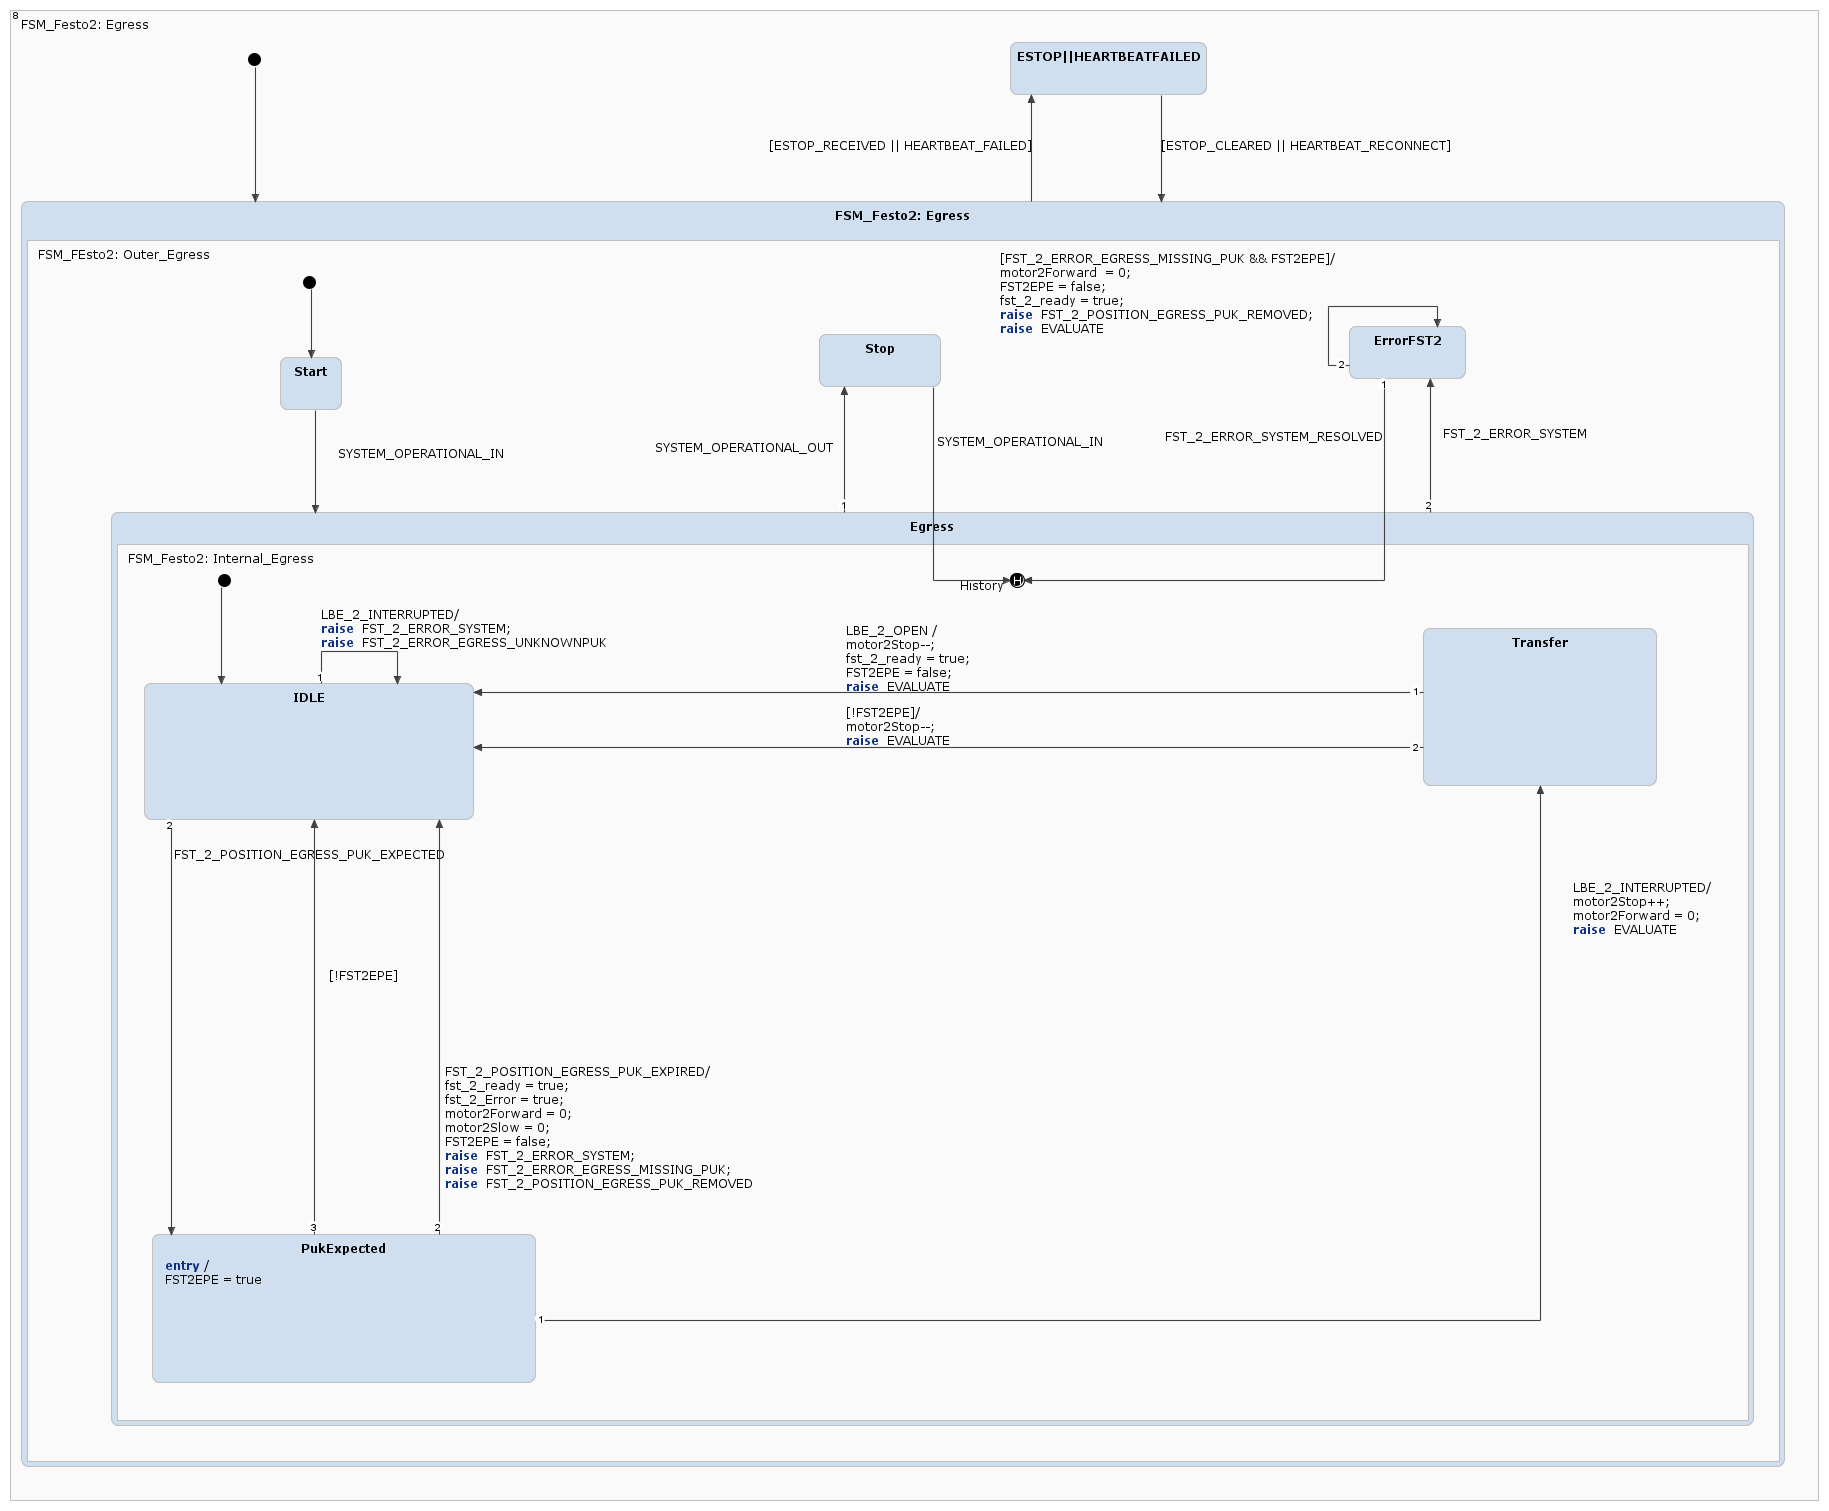
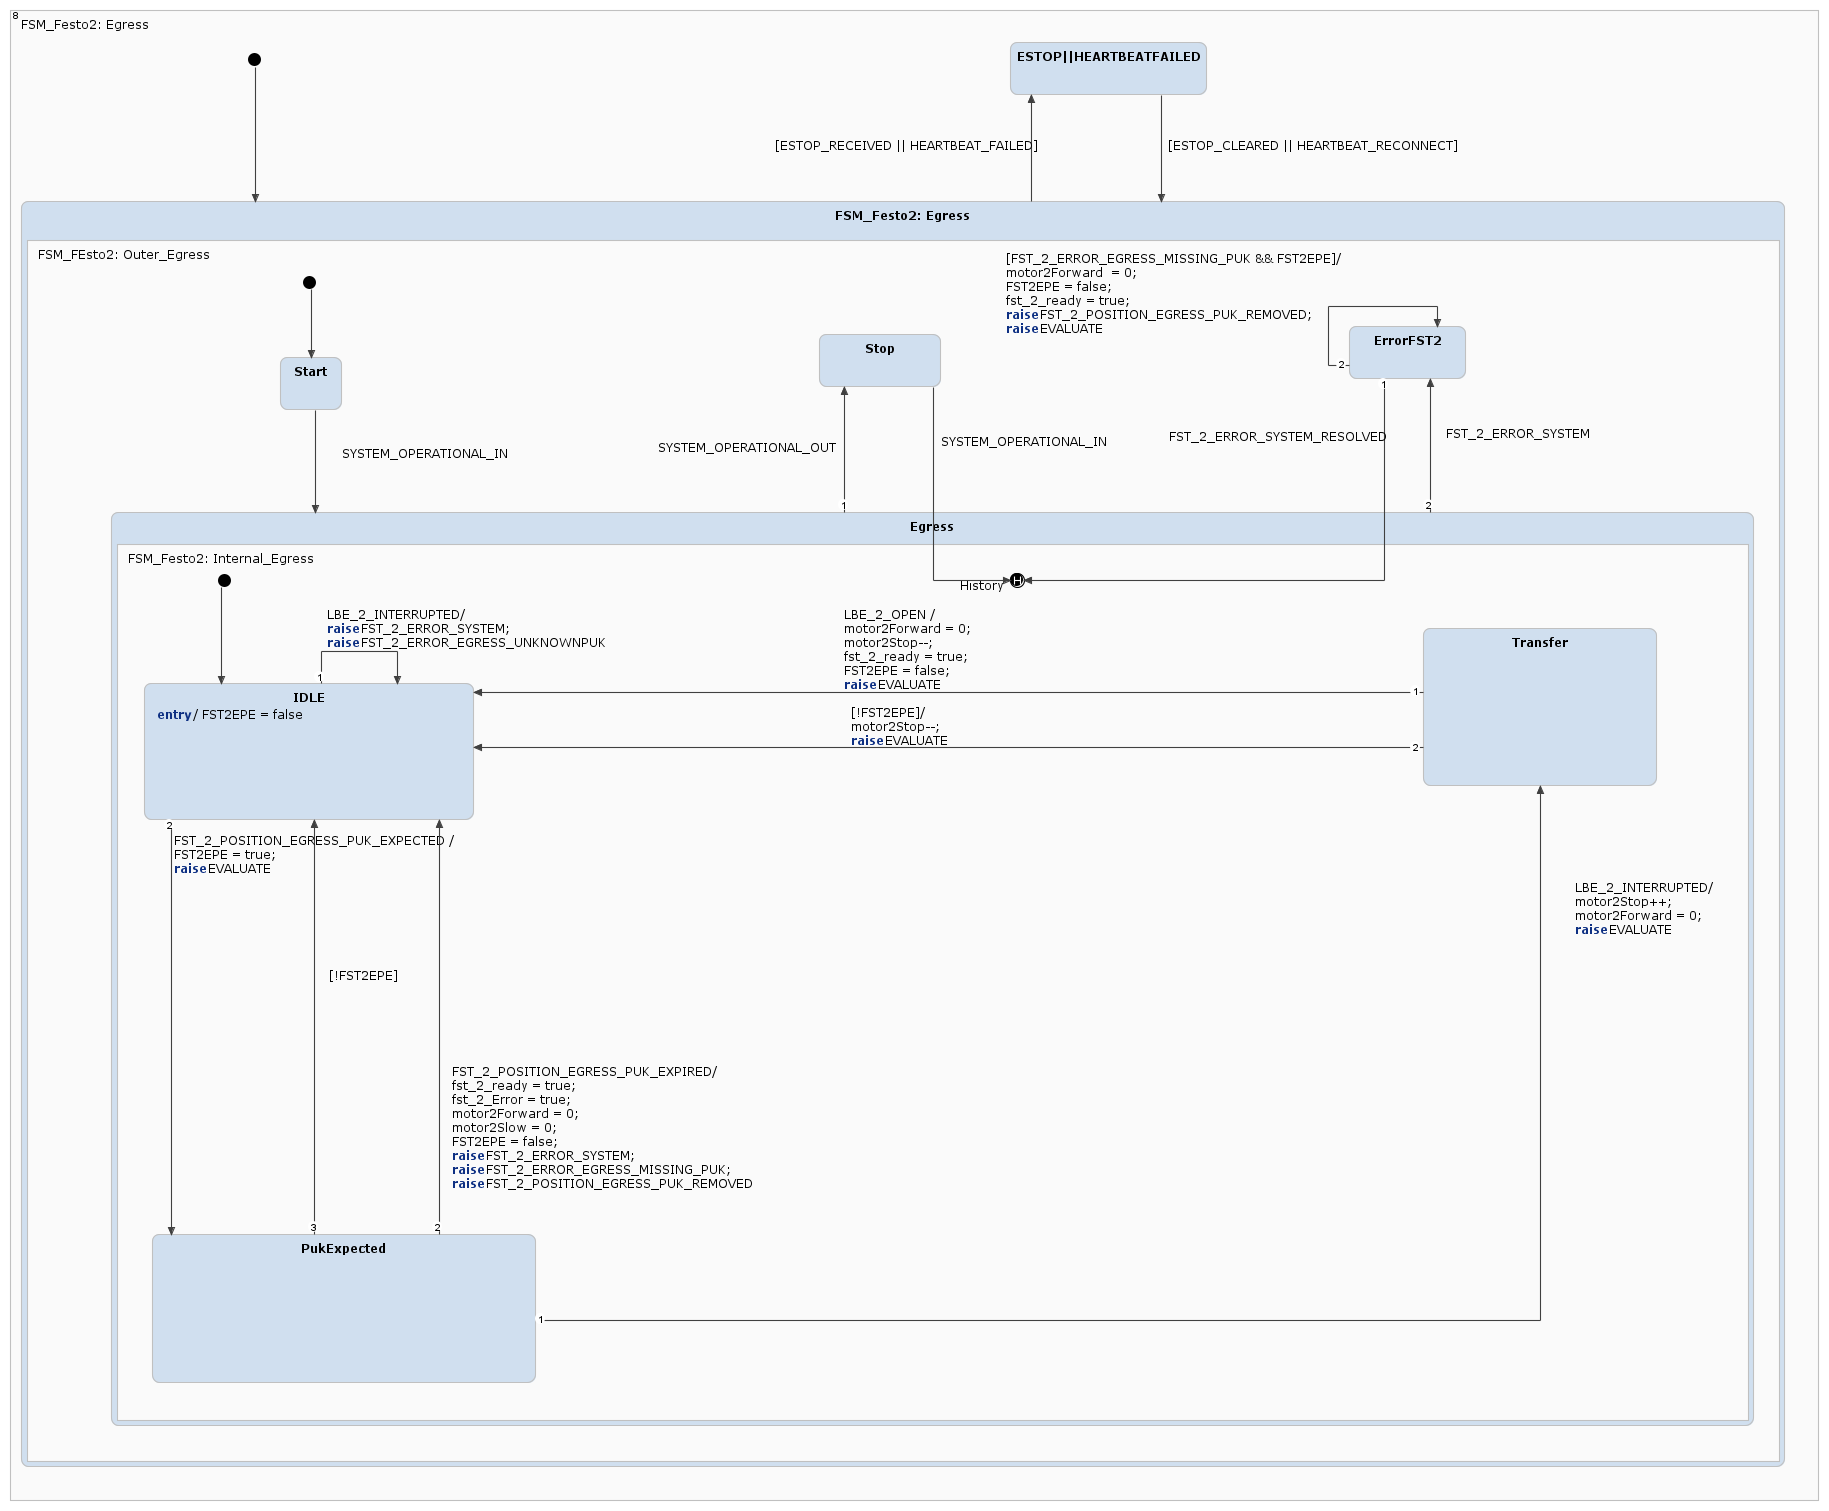
Reviewed fst2 egress

diff --git a/src/FSM/gen/src-gen/FSM.cpp b/src/FSM/gen/src-gen/FSM.cpp
@@ -4626,11 +4626,11 @@ void FSM::enact_FSM_Festo2__HeightMeasurement_FSM_Festo2__HeightMeasurement_FSM_
 	completed = true;
 }
 
-/* Entry action for state 'PukExpected'. */
-void FSM::enact_FSM_Festo2__Egress_FSM_Festo2__Egress_FSM_FEsto2__Outer_Egress_Egress_FSM_Festo2__Internal_Egress_PukExpected()
+/* Entry action for state 'IDLE'. */
+void FSM::enact_FSM_Festo2__Egress_FSM_Festo2__Egress_FSM_FEsto2__Outer_Egress_Egress_FSM_Festo2__Internal_Egress_IDLE()
 {
-	/* Entry action for state 'PukExpected'. */
-	setFST2EPE(true);
+	/* Entry action for state 'IDLE'. */
+	setFST2EPE(false);
 }
 
 /* Entry action for state 'Forward'. */
@@ -6107,6 +6107,7 @@ void FSM::enseq_FSM_Festo2__Egress_FSM_Festo2__Egress_FSM_FEsto2__Outer_Egress_E
 void FSM::enseq_FSM_Festo2__Egress_FSM_Festo2__Egress_FSM_FEsto2__Outer_Egress_Egress_FSM_Festo2__Internal_Egress_IDLE_default()
 {
 	/* 'default' enter sequence for state IDLE */
+	enact_FSM_Festo2__Egress_FSM_Festo2__Egress_FSM_FEsto2__Outer_Egress_Egress_FSM_Festo2__Internal_Egress_IDLE();
 	stateConfVector[7] = FSM::State::FSM_Festo2__Egress_FSM_Festo2__Egress_FSM_FEsto2__Outer_Egress_Egress_FSM_Festo2__Internal_Egress_IDLE;
 	stateConfVectorPosition = 7;
 	historyVector[8] = stateConfVector[7];
@@ -6125,7 +6126,6 @@ void FSM::enseq_FSM_Festo2__Egress_FSM_Festo2__Egress_FSM_FEsto2__Outer_Egress_E
 void FSM::enseq_FSM_Festo2__Egress_FSM_Festo2__Egress_FSM_FEsto2__Outer_Egress_Egress_FSM_Festo2__Internal_Egress_PukExpected_default()
 {
 	/* 'default' enter sequence for state PukExpected */
-	enact_FSM_Festo2__Egress_FSM_Festo2__Egress_FSM_FEsto2__Outer_Egress_Egress_FSM_Festo2__Internal_Egress_PukExpected();
 	stateConfVector[7] = FSM::State::FSM_Festo2__Egress_FSM_Festo2__Egress_FSM_FEsto2__Outer_Egress_Egress_FSM_Festo2__Internal_Egress_PukExpected;
 	stateConfVectorPosition = 7;
 	historyVector[8] = stateConfVector[7];
@@ -16938,6 +16938,9 @@ sc::integer FSM::FSM_Festo2__Egress_FSM_Festo2__Egress_FSM_FEsto2__Outer_Egress_
 				if (FST_2_POSITION_EGRESS_PUK_EXPECTED_raised)
 				{ 
 					exseq_FSM_Festo2__Egress_FSM_Festo2__Egress_FSM_FEsto2__Outer_Egress_Egress_FSM_Festo2__Internal_Egress_IDLE();
+					setFST2EPE(true);
+					EVALUATE_observable.next();
+					raiseLocal_EVALUATE();
 					enseq_FSM_Festo2__Egress_FSM_Festo2__Egress_FSM_FEsto2__Outer_Egress_Egress_FSM_Festo2__Internal_Egress_PukExpected_default();
 					FSM_Festo2__Egress_FSM_Festo2__Egress_FSM_FEsto2__Outer_Egress_Egress_react(7);
 					transitioned_after = 7;
@@ -16964,6 +16967,7 @@ sc::integer FSM::FSM_Festo2__Egress_FSM_Festo2__Egress_FSM_FEsto2__Outer_Egress_
 			if (LBE_2_OPEN_raised)
 			{ 
 				exseq_FSM_Festo2__Egress_FSM_Festo2__Egress_FSM_FEsto2__Outer_Egress_Egress_FSM_Festo2__Internal_Egress_Transfer();
+				setMotor2Forward(0);
 				motor2Stop--;
 				setFst_2_ready(true);
 				setFST2EPE(false);

diff --git a/src/FSM/gen/src-gen/FSM.h b/src/FSM/gen/src-gen/FSM.h
@@ -1692,7 +1692,7 @@ class FSM : public sc::EventDrivenInterface
 		void enact_FSM_Festo2__Ingress_FSM_Festo2__Ingress_FSM_Festo2__Outer_Ingress_Ingress_FSM_Festo2__Internal_Ingress_Idle();
 		void enact_FSM_Festo2__HeightMeasurement_FSM_Festo2__HeightMeasurement_FSM_Festo2__Outer_Heightmeasurement_HeightMeasurement_FSM_Festo2__Internal_HeightMeasurement_Idle();
 		void enact_FSM_Festo2__HeightMeasurement_FSM_Festo2__HeightMeasurement_FSM_Festo2__Outer_Heightmeasurement_HeightMeasurement_FSM_Festo2__Internal_HeightMeasurement_Measuring_FSM_Festo2__Outer_HeightMeasurement__final_();
-		void enact_FSM_Festo2__Egress_FSM_Festo2__Egress_FSM_FEsto2__Outer_Egress_Egress_FSM_Festo2__Internal_Egress_PukExpected();
+		void enact_FSM_Festo2__Egress_FSM_Festo2__Egress_FSM_FEsto2__Outer_Egress_Egress_FSM_Festo2__Internal_Egress_IDLE();
 		void enact_FSM_Festo2__Motor_SystemMotor_FSM_SystemMotor_Forward();
 		void enact_FSM_Festo2__Motor_SystemMotor_FSM_SystemMotor_Slow();
 		void enact_FSM_Festo2__Motor_SystemMotor_FSM_SystemMotor_Stop();
